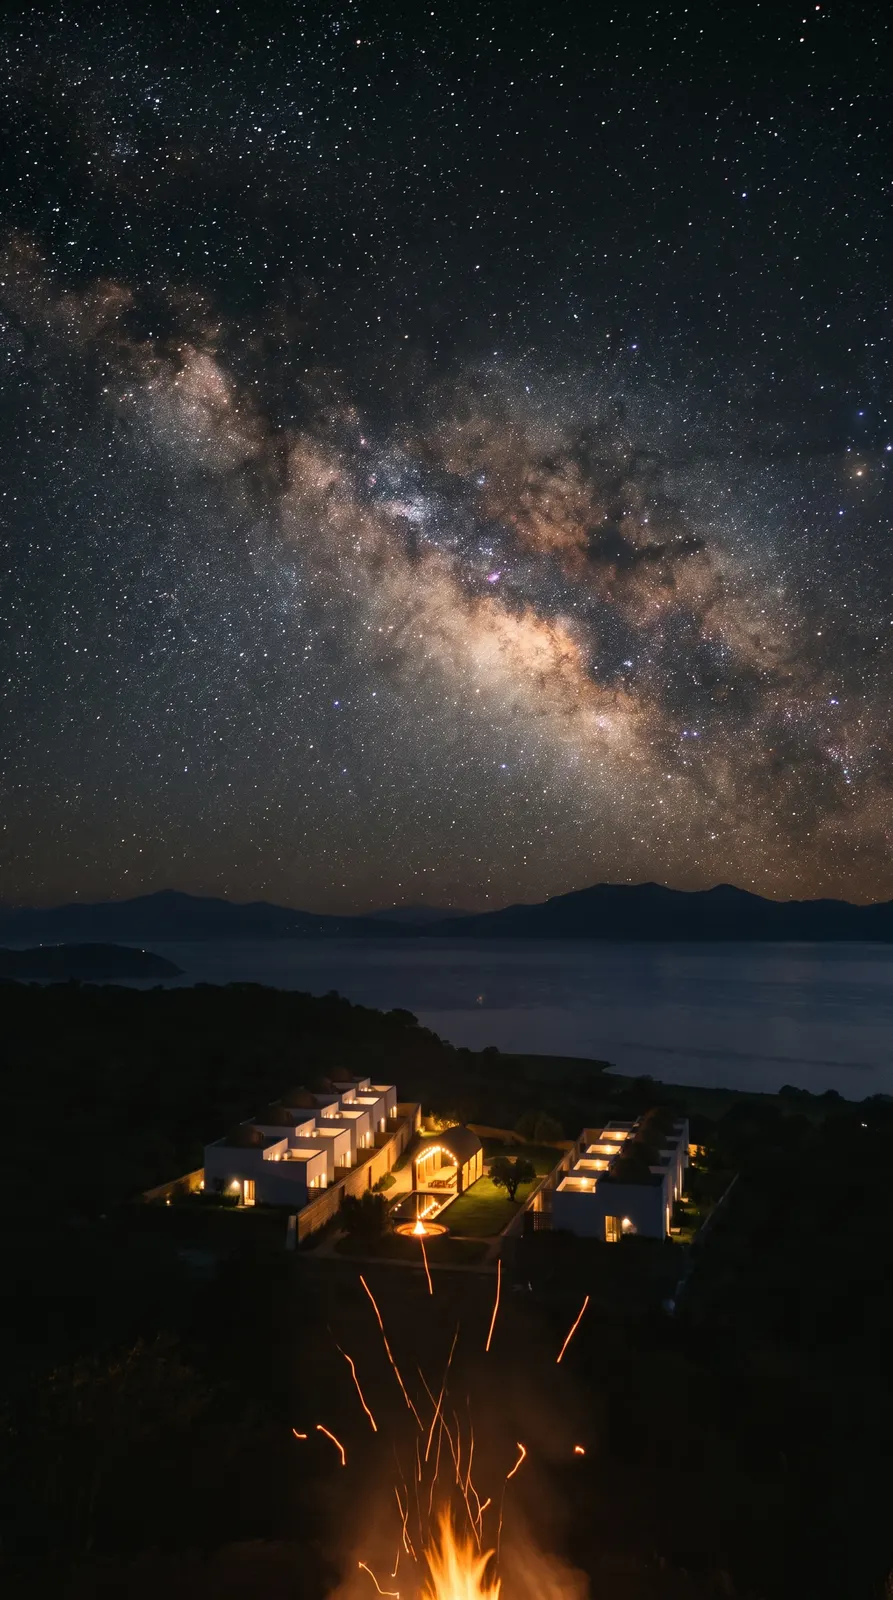
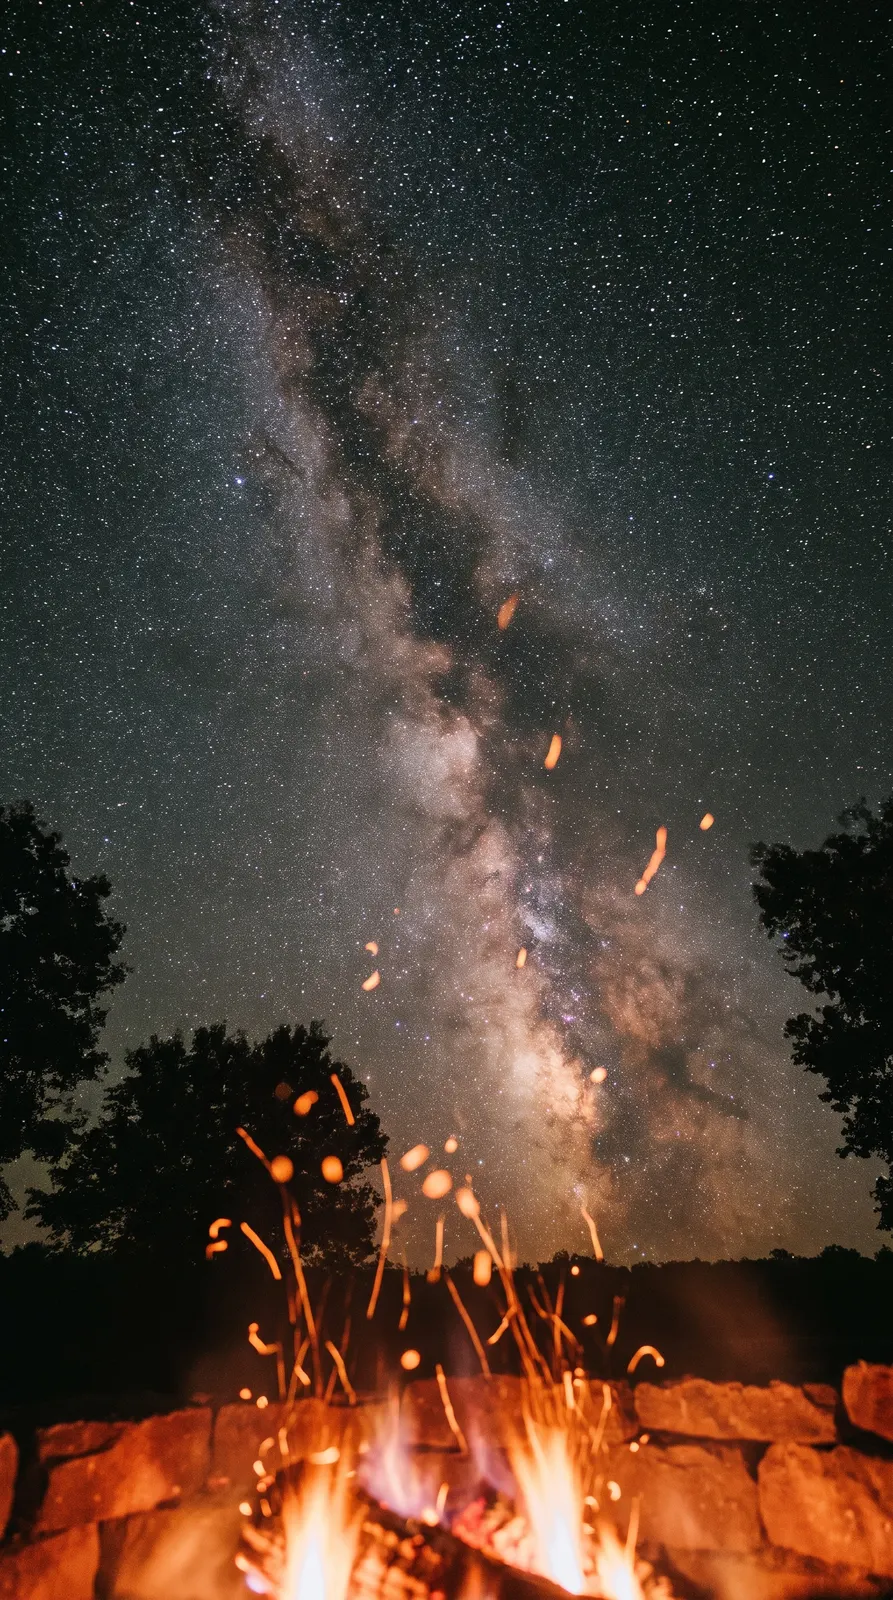
Film: ending timing for the fire close up and ember tilt, star still
Claude-Session: https://claude.ai/code/session_014Wen726XQrBeRswWQMbXaQ

diff --git a/components/film/ScrollFilm.tsx b/components/film/ScrollFilm.tsx
@@ -22,10 +22,10 @@ const CHAPTERS: Chapter[] = [
   { at: [30, 35], title: 'Your own food. Your own power.', sub: 'Pick dinner from the garden. Solar and a battery on every home.', still: 'garden' },
   { at: [35, 40], title: 'Every age is welcome.', sub: 'Couples, kids and grandparents. Neighbors by name.', still: 'dusk' },
   { at: [40, 47], title: 'Picked at 5. On the table at 7.', still: 'table' },
-  { at: [47, 52.5], title: "More stars than you've seen in years.", still: 'fire' },
-  { at: [52.5, 55], title: '12 founding families. One long table.', sub: 'Homes from $321,000. Founding families choose their lot first.', still: 'night' },
+  { at: [47, 56.5], title: "More stars than you've seen in years.", still: 'fire' },
+  { at: [56.5, 60], title: '12 founding families. One long table.', sub: 'Homes from $321,000. Founding families choose their lot first.', still: 'night' },
 ];
-const DURATION = 55;
+const DURATION = 60;
 
 export function ScrollFilm() {
   const root = useRef<HTMLDivElement>(null);
